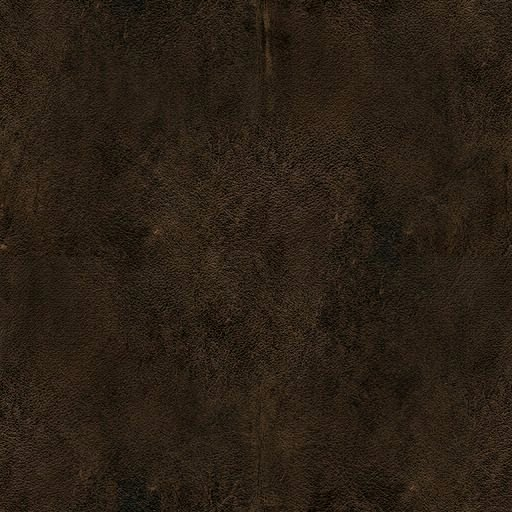
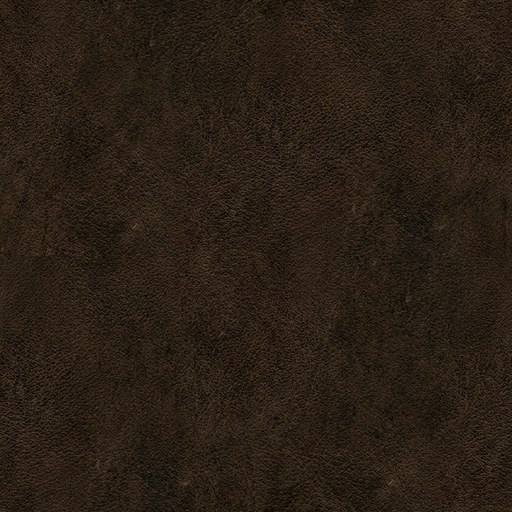
The blank sheet is smoke-browned vellum lying on the desk (rhumbs in brown, green and red ink, edges darkened); a small sheet lies centred and zoom stops just past the whole sheet; names wait until both ends are known; seamless leather and parchment without repeating stains

diff --git a/index.html b/index.html
@@ -3376,8 +3376,16 @@ let camX = 0, camY = 0, viewCols, viewRows;
 // The camera may go half a screen past the map's edges, so every tile (a coastal capital, a corner of the map) can be brought to the middle
 function visibleCols() { return viewW / hexColStep(); }
 function visibleRows() { return viewH / hexCellH(); }
-function clampCamX(v) { const vc = visibleCols(); return Math.max(-vc / 2, Math.min(MAP_COLS - vc / 2, v)); }
-function clampCamY(v) { const vr = visibleRows(); return Math.max(-vr / 2, Math.min(MAP_ROWS - vr / 2, v)); }
+// (a sheet smaller than the view lies in the middle of the desk, with only a little play either way)
+function clampAxis(v, n, vis) { if (vis >= n) { const c = (n - vis) / 2; return Math.max(c - 1.5, Math.min(c + 1.5, v)); } return Math.max(-vis / 2, Math.min(n - vis / 2, v)); }
+function clampCamX(v) { return clampAxis(v, MAP_COLS + 0.35, visibleCols()); }
+function clampCamY(v) { return clampAxis(v, MAP_ROWS + 0.5, visibleRows()); }
+// zoomed out no further than a little past the whole sheet in view
+function minTile() {
+  if (!MAP_COLS) return MIN_TILE;
+  const rc = hexColStep() / VIEW_TILE, rr = hexCellH() / VIEW_TILE, fit = Math.min(viewW / ((MAP_COLS + 0.35) * rc), viewH / ((MAP_ROWS + 0.5) * rr));
+  return Math.max(MIN_TILE, Math.min(24, Math.floor(fit * 0.9)));
+}
 let nations = [];
 let playerNation = 0;
 let units = [];
@@ -4025,6 +4033,7 @@ function panCameraTo(col, row, callback) {
 let camPanActive = false;
 function camPanTick() {
   if (targetCamX === null) { camPanActive = false; return; }
+  targetCamX = clampCamX(targetCamX); targetCamY = clampCamY(targetCamY); // (the view may have been zoomed meanwhile)
   const dx = targetCamX - camX, dy = targetCamY - camY;
   if (Math.abs(dx) < 0.5 && Math.abs(dy) < 0.5) {
     camX = targetCamX; camY = targetCamY;
@@ -10748,23 +10757,23 @@ function getFogPattern() {
   try {
     const S = 512, c = document.createElement('canvas'); c.width = c.height = S;
     const g = c.getContext('2d');
-    g.fillStyle = '#27231d'; g.fillRect(0, 0, S, S);
+    g.fillStyle = '#76603f'; g.fillRect(0, 0, S, S); // (blank vellum, browned by the smoke of years)
     // soft stains: tileable by drawing each blot at its wrapped positions
     let seed = 7; const rnd = () => (seed = (seed * 16807) % 2147483647) / 2147483647;
     for (let k = 0; k < 70; k++) {
       const x = rnd() * S, y = rnd() * S, r = 20 + rnd() * 90, dark = rnd() < 0.5;
       for (const ox of [-S, 0, S]) for (const oy of [-S, 0, S]) {
         const gr = g.createRadialGradient(x + ox, y + oy, 0, x + ox, y + oy, r);
-        gr.addColorStop(0, dark ? 'rgba(10,8,5,0.10)' : 'rgba(120,100,70,0.06)'); gr.addColorStop(1, 'rgba(0,0,0,0)');
+        gr.addColorStop(0, dark ? 'rgba(40,24,8,0.13)' : 'rgba(200,176,128,0.08)'); gr.addColorStop(1, 'rgba(0,0,0,0)');
         g.fillStyle = gr; g.fillRect(x + ox - r, y + oy - r, r * 2, r * 2);
       }
     }
     // paper grain
     const img = g.getImageData(0, 0, S, S), d = img.data;
-    for (let i = 0; i < d.length; i += 4) { const n = (rnd() - 0.5) * 9; d[i] += n; d[i + 1] += n; d[i + 2] += n * 0.8; }
+    for (let i = 0; i < d.length; i += 4) { const n = (rnd() - 0.5) * 11; d[i] += n; d[i + 1] += n; d[i + 2] += n * 0.8; }
     g.putImageData(img, 0, 0);
     // a faint chart grid, as on an old sea map
-    g.strokeStyle = 'rgba(150,125,85,0.07)'; g.lineWidth = 1;
+    g.strokeStyle = 'rgba(52,34,16,0.08)'; g.lineWidth = 1;
     g.beginPath(); g.moveTo(0, 0.5); g.lineTo(S, 0.5); g.moveTo(0.5, 0); g.lineTo(0.5, S);
     g.moveTo(0, S / 2 + 0.5); g.lineTo(S, S / 2 + 0.5); g.moveTo(S / 2 + 0.5, 0); g.lineTo(S / 2 + 0.5, S); g.stroke();
     _fogPattern = ctx.createPattern(c, 'repeat');
@@ -12358,6 +12367,10 @@ function owDrawNames(g, w, cs, ch, facePad) {
     if (x < -viewW * 0.5 || x > viewW * 1.5 || y < -px * 2 || y > viewH + px * 2) continue;
     g.font = `italic ${l.kind === 'sea' ? 500 : 600} ${px}px 'EB Garamond', serif`;
     if ('letterSpacing' in g) g.letterSpacing = (px * (l.kind === 'sea' ? 0.35 : 0.18)) + 'px';
+    // (lettered only once the ground under both its ends is known, so a name is never cut off at the edge of the known world)
+    const lx = l.i % MAP_COLS, ly = (l.i - lx) / MAP_COLS, half = Math.ceil(g.measureText(l.text).width / 2 / cs + 0.3);
+    const known = (c) => c < 0 || c >= MAP_COLS || tiles[ly * MAP_COLS + c].revealed.has(playerNation);
+    if (!known(lx - half) || !known(lx + half)) continue;
     g.lineWidth = Math.max(2, px * 0.18); g.strokeStyle = l.kind === 'sea' ? 'rgba(150, 175, 170, 0.55)' : 'rgba(236, 226, 200, 0.75)'; g.strokeText(l.text, x, y + (l.kind === 'mount' ? w * 0.45 : 0));
     g.fillStyle = l.kind === 'sea' ? 'rgba(28, 44, 50, 0.85)' : 'rgba(58, 38, 18, 0.9)'; g.fillText(l.text, x, y + (l.kind === 'mount' ? w * 0.45 : 0));
   }
@@ -12508,7 +12521,7 @@ function drawRhumbs(cs, ch) {
   const R = Math.min(mw, mh) * 0.36, c0 = [ox + mw / 2, oy + mh / 2];
   const hubs = [c0];
   for (let k = 0; k < 8; k++) { const a = k / 8 * Math.PI * 2 + Math.PI / 8; hubs.push([c0[0] + Math.cos(a) * R * 1.25, c0[1] + Math.sin(a) * R]); }
-  const L = Math.hypot(mw, mh), cols = ['rgba(150, 120, 70, 0.17)', 'rgba(90, 130, 80, 0.12)', 'rgba(160, 60, 40, 0.11)'];
+  const L = Math.hypot(mw, mh), cols = ['rgba(48, 32, 16, 0.26)', 'rgba(38, 72, 40, 0.2)', 'rgba(128, 34, 20, 0.2)'];
   ctx.save(); ctx.lineWidth = 1;
   // off the sheet is the table it lies on, darker; the lines stay on the vellum
   if (OW.canvas) {
@@ -12518,6 +12531,13 @@ function drawRhumbs(cs, ch) {
     if (desk) { desk.setTransform(new DOMMatrix().translate(ox % 512, oy % 512)); ctx.fillStyle = desk; ctx.fill(off, 'evenodd'); }
     ctx.fillStyle = desk ? 'rgba(10, 6, 2, 0.45)' : 'rgba(6, 4, 2, 0.6)'; ctx.fill(off, 'evenodd');
     ctx.beginPath(); ctx.rect(sx, sy, sw, sh); ctx.clip();
+    // the blank vellum darkens toward its edges, as a sheet long kept by the fire
+    const e = Math.min(sw, sh) * 0.22;
+    for (const [x0, y0, x1, y1] of [[sx, 0, sx + e, 0], [sx + sw, 0, sx + sw - e, 0], [0, sy, 0, sy + e], [0, sy + sh, 0, sy + sh - e]]) {
+      const gr = ctx.createLinearGradient(x0, y0, x1, y1);
+      gr.addColorStop(0, 'rgba(30, 18, 6, 0.42)'); gr.addColorStop(1, 'rgba(30, 18, 6, 0)');
+      ctx.fillStyle = gr; ctx.fillRect(sx, sy, sw, sh);
+    }
   }
   for (let band = 0; band < 3; band++) {
     ctx.strokeStyle = cols[band]; ctx.beginPath();
@@ -12535,7 +12555,7 @@ function drawRhumbs(cs, ch) {
   const tpx = Math.max(12, Math.min(cs * 0.9, 46));
   ctx.font = `italic ${tpx}px 'EB Garamond', serif`;
   if ('letterSpacing' in ctx) ctx.letterSpacing = (tpx * 0.4) + 'px';
-  ctx.fillStyle = 'rgba(196, 170, 120, 0.22)';
+  ctx.fillStyle = 'rgba(46, 30, 14, 0.34)';
   for (const [fxp, fyp] of [[0.27, 0.3], [0.73, 0.36], [0.3, 0.74], [0.7, 0.7]]) ctx.fillText('Terra Incognita', ox + mw * fxp, oy + mh * fyp);
   ctx.restore();
   // the title cartouche in the sheet's upper corner, naming the realm and the year of the survey
@@ -12547,11 +12567,12 @@ function drawRhumbs(cs, ch) {
     const n = nations[playerNation], year = getCurrentYear();
     ctx.textAlign = 'center'; ctx.textBaseline = 'middle'; ctx.fillStyle = 'rgba(46, 30, 14, 0.92)';
     const u = cwid / 100;
-    ctx.font = `italic ${Math.max(8, u * 4.2)}px 'EB Garamond', serif`; ctx.fillText('Charta Novissima', pcx, pcy - u * 7);
-    ctx.font = `${Math.max(10, u * 6.4)}px 'Uncial Antiqua', serif`; ctx.fillStyle = 'rgba(120, 30, 20, 0.95)';
+    // (the lettering keeps to the cartouche's own scale; too small to read, only the realm's name is kept)
+    if (u * 4 >= 6) { ctx.font = `italic ${u * 4.2}px 'EB Garamond', serif`; ctx.fillText('Charta Novissima', pcx, pcy - u * 7, cwid * 0.4); }
+    ctx.font = `${Math.max(5, u * 6.4)}px 'Uncial Antiqua', serif`; ctx.fillStyle = 'rgba(120, 30, 20, 0.95)';
     const name = n ? n.name : ''; ctx.fillText(name, pcx, pcy, cwid * 0.42);
-    ctx.font = `italic ${Math.max(8, u * 3.8)}px 'EB Garamond', serif`; ctx.fillStyle = 'rgba(46, 30, 14, 0.92)';
-    ctx.fillText('Anno Domini ' + toRoman(year), pcx, pcy + u * 7.5);
+    ctx.font = `italic ${u * 3.8}px 'EB Garamond', serif`; ctx.fillStyle = 'rgba(46, 30, 14, 0.92)';
+    if (u * 3.8 >= 6) ctx.fillText('Anno Domini ' + toRoman(year), pcx, pcy + u * 7.5, cwid * 0.4);
   }
   // the key to the chart in its lower right corner, as the old maps explained their marks
   {
@@ -16107,7 +16128,7 @@ canvas.addEventListener('wheel', (e) => {
   const zoomIn = _wheelAcc < 0; _wheelAcc = 0;
   // (from wherever a glide in progress was heading, so quick notches add up)
   const base = _zoomGlide ? _zoomGlide.to : VIEW_TILE;
-  const to = zoomIn ? Math.min(MAX_TILE, base + Math.max(2, Math.round(base * 0.15))) : Math.max(MIN_TILE, base - Math.max(2, Math.round(base * 0.15)));
+  const to = zoomIn ? Math.min(MAX_TILE, base + Math.max(2, Math.round(base * 0.15))) : Math.max(minTile(), base - Math.max(2, Math.round(base * 0.15)));
   // the zoom glides over a few frames, the point under the pointer staying where it is
   _zoomGlide = { from: VIEW_TILE, to, t0: performance.now(), worldX, worldY, mx, my };
   if (!_zoomRaf) { _zoomRaf = true; requestAnimationFrame(zoomGlideStep); }
@@ -16161,7 +16182,7 @@ canvas.addEventListener('touchmove', (e) => {
       const oldCS = hexColStep(), oldCH = hexCellH();
       const worldX = camX + midX / oldCS, worldY = camY + midY / oldCH;
       if (dist > lastPinchDist * 1.05) VIEW_TILE = Math.min(MAX_TILE, VIEW_TILE + Math.max(1, Math.round(VIEW_TILE * 0.08)));
-      else if (dist < lastPinchDist * 0.95) VIEW_TILE = Math.max(MIN_TILE, VIEW_TILE - Math.max(1, Math.round(VIEW_TILE * 0.08)));
+      else if (dist < lastPinchDist * 0.95) VIEW_TILE = Math.max(minTile(), VIEW_TILE - Math.max(1, Math.round(VIEW_TILE * 0.08)));
       const newCS = hexColStep(), newCH = hexCellH();
       camX = worldX - midX / newCS;
       camY = worldY - midY / newCH;
